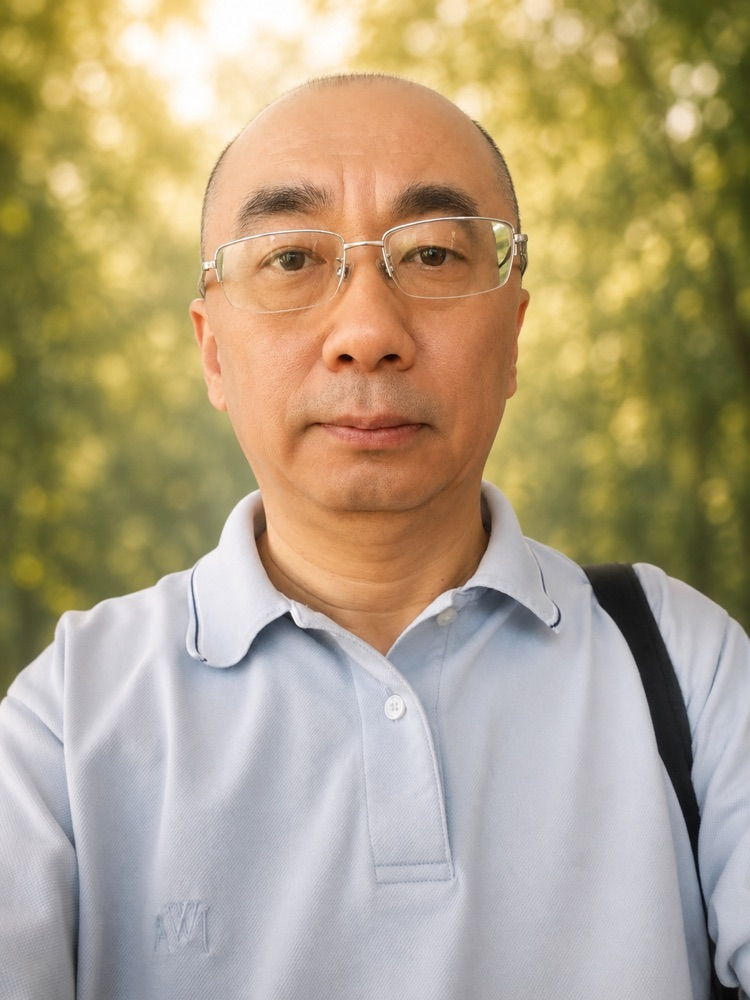
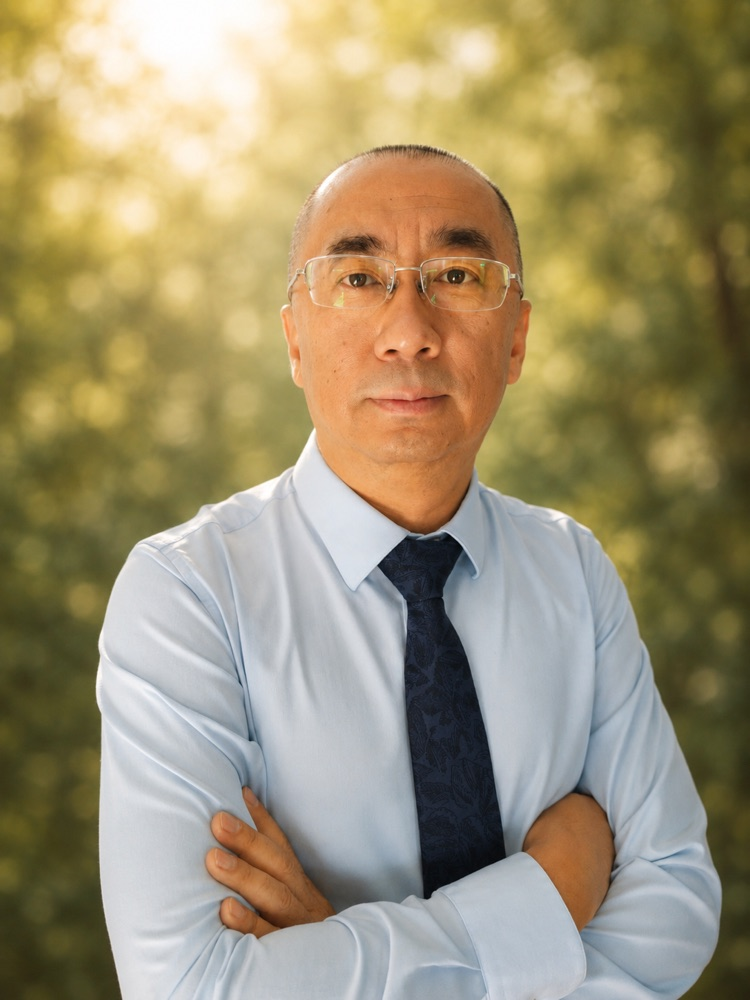
feat: mobile nav drawer with pill aesthetic, animated open/close, and nav cursor fix
- Move mobile bottom-sheet outside <header> to fix backdrop-filter containing-block bug
- Redesign drawer as white pill trigger (paper/bone fill matching desktop cursor) with
  frosted-glass link panel absolutely positioned above it
- WAAPI animation on opacity+transform (compositor-only, 60fps) with arrow rotation
- Fix nav pill cursor squishing on short links by animating width instead of scaleX
- Replace horizon-3 team photo

diff --git a/src/components/ui/NavLinks.tsx b/src/components/ui/NavLinks.tsx
@@ -12,10 +12,7 @@ const links = [
   { href: "#engage", label: "Engage" },
 ];
 
-// width/left stored so Cursor can compute x + scaleX (compositor-only, no layout)
 type Position = { left: number; width: number; opacity: number };
-
-const CURSOR_BASE_WIDTH = 100; // px — cursor CSS width; scaleX adjusts visual width
 
 export function NavLinks() {
   const [position, setPosition] = useState<Position>({ left: 0, width: 0, opacity: 0 });
@@ -71,12 +68,12 @@ function Cursor({ position }: { position: Position }) {
     <motion.li
       animate={{
         x: position.left,
-        scaleX: position.width > 0 ? position.width / CURSOR_BASE_WIDTH : 0,
+        width: position.width,
         opacity: position.opacity,
       }}
       transition={{ type: "spring", stiffness: 350, damping: 30 }}
       className="absolute z-0 left-0 rounded-full bg-[var(--color-paper)] pointer-events-none opacity-0"
-      style={{ top: 2, bottom: 2, width: CURSOR_BASE_WIDTH, transformOrigin: "left center" }}
+      style={{ top: 2, bottom: 2, width: 0 }}
       aria-hidden="true"
     />
   );